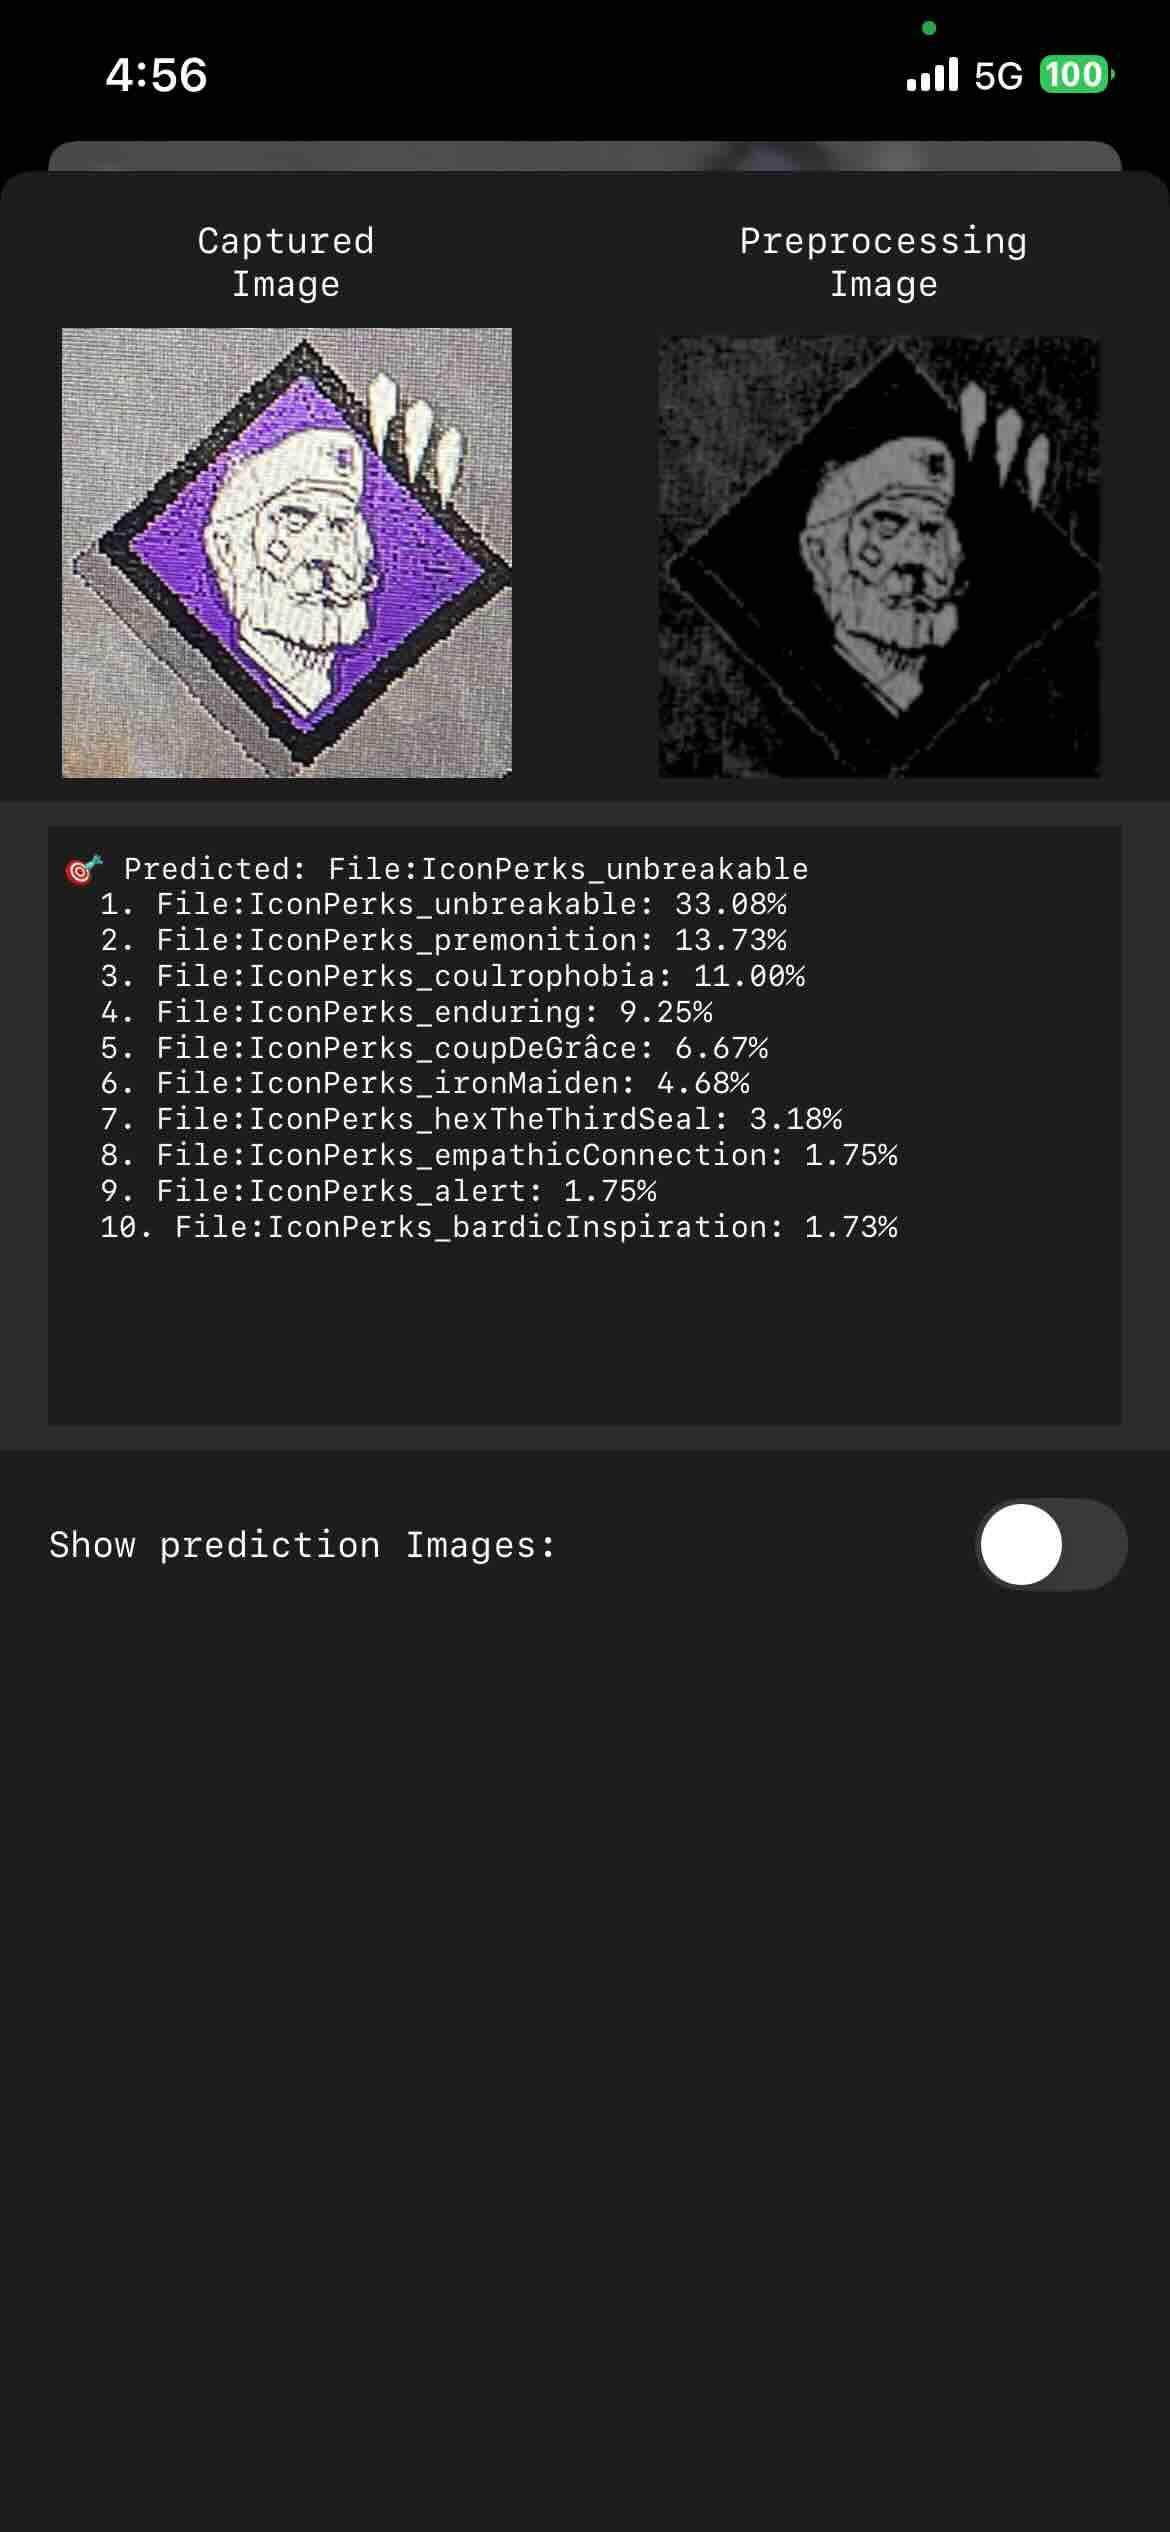
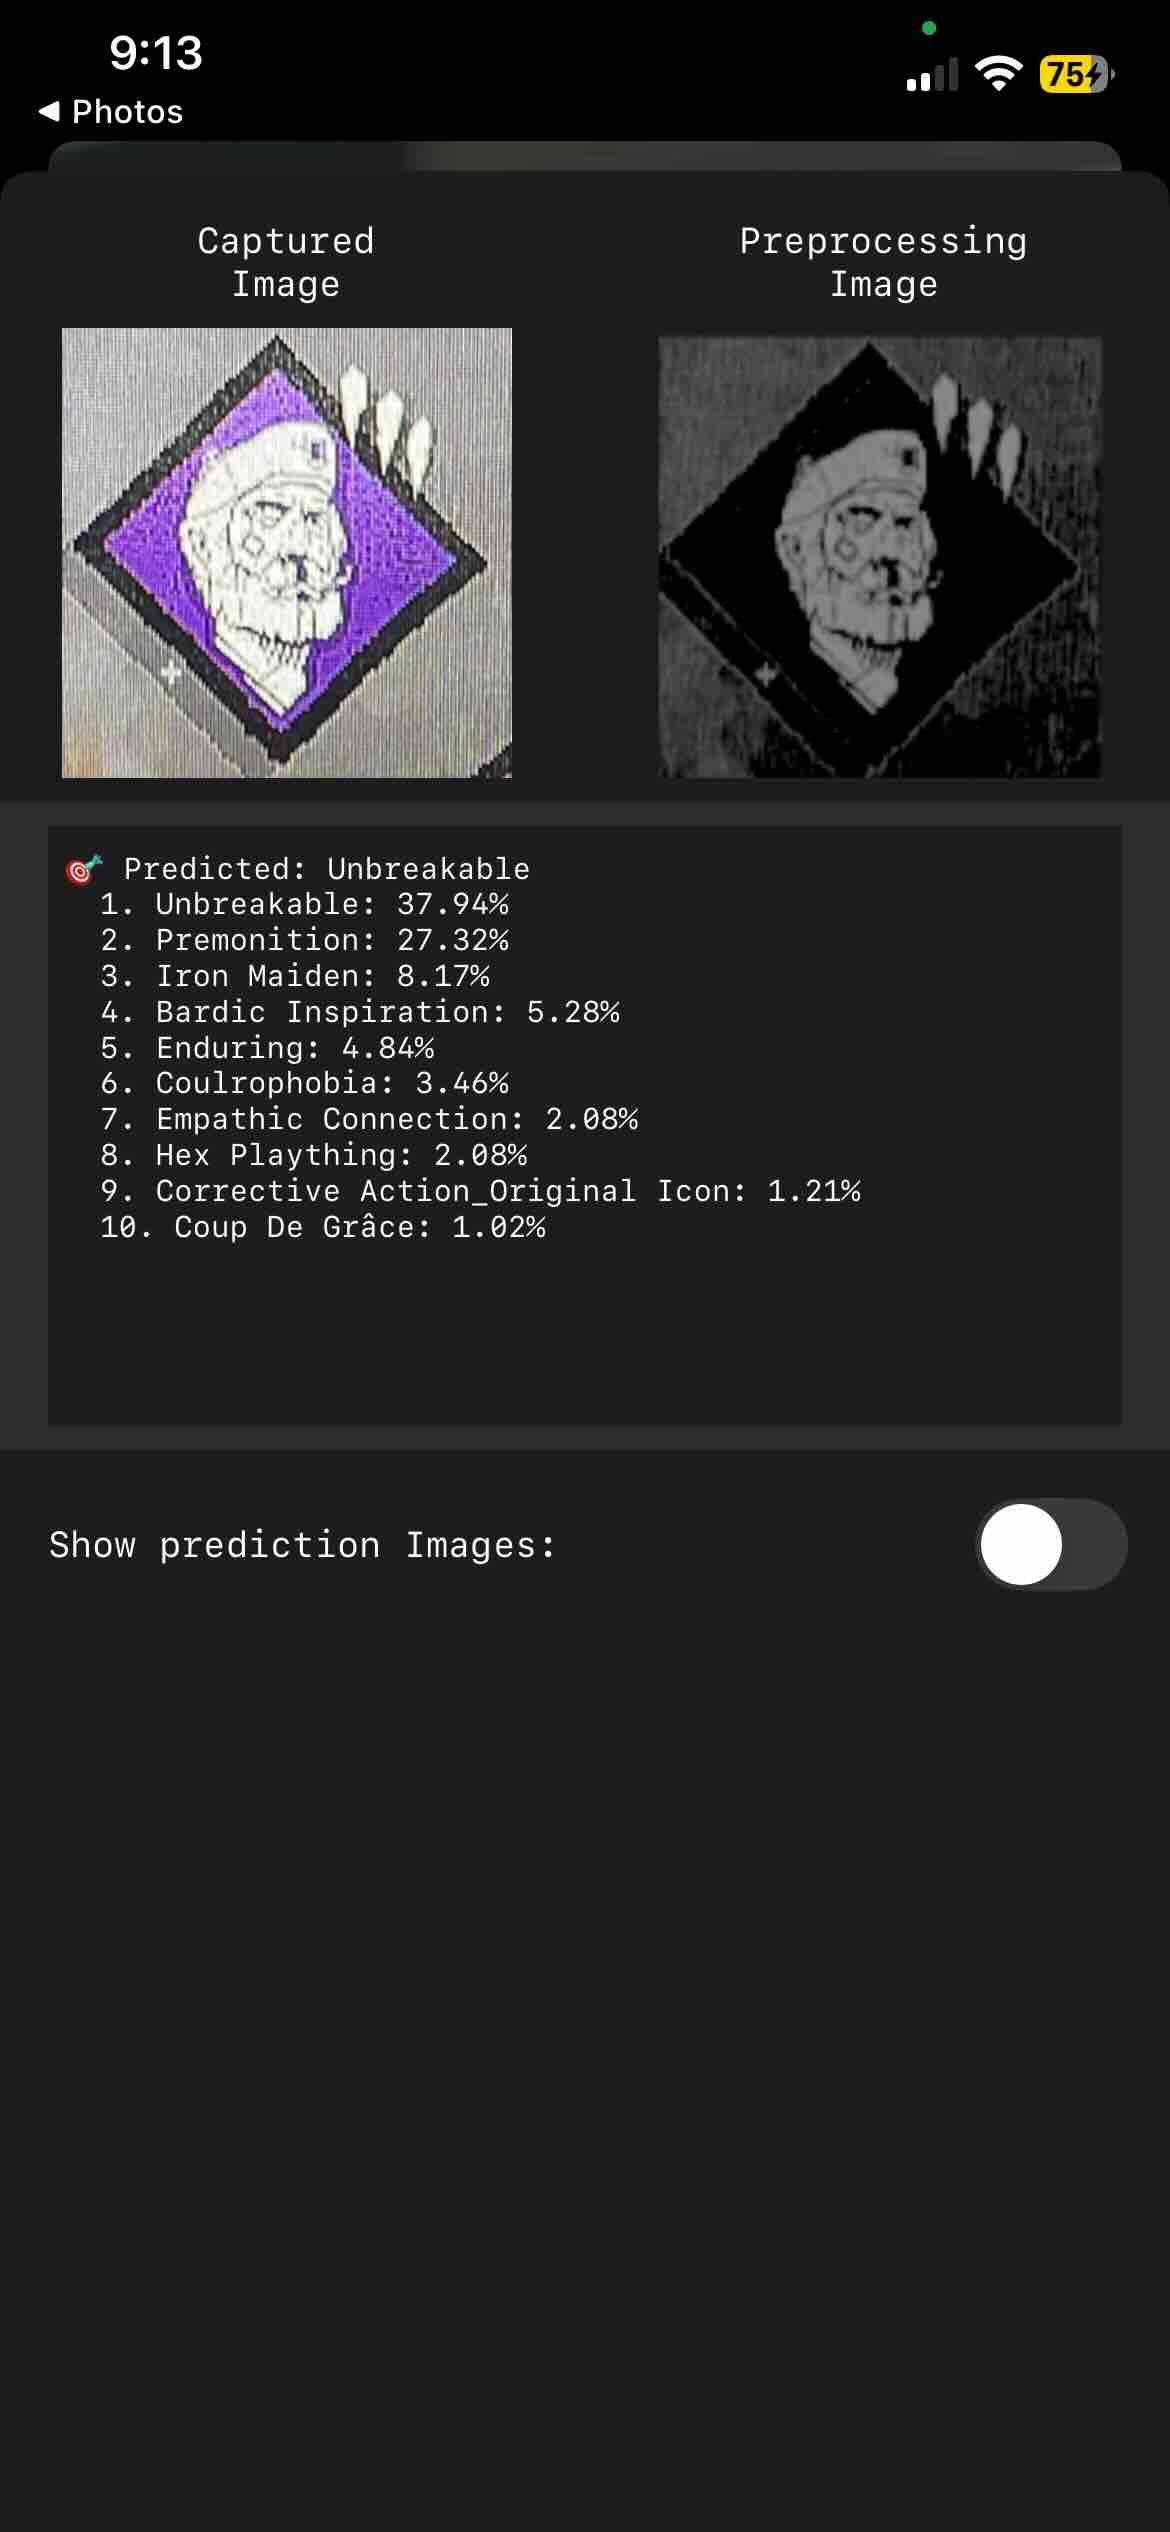
chore: extract file name to perk name

diff --git a/DBD Perks/Module/Prediction/PredictionViewModel.swift b/DBD Perks/Module/Prediction/PredictionViewModel.swift
@@ -33,12 +33,12 @@ class PredictionViewModel {
             let model = try? DBDPerkClassifier_Tuned(configuration: MLModelConfiguration())
             
             if let result = try? model?.prediction(input_1: buffer) {
-                predictionLog = "🎯 Predicted: \(result.classLabel)\n"
+                predictionLog = "🎯 Predicted: \(result.classLabel.extractPerkName())\n"
                 
                 let sorted = result.classLabel_probs.sorted { $0.value > $1.value }
                 
                 for (i, (label, prob)) in sorted.prefix(10).enumerated() {
-                    predictionLog += "  \(i+1). \(label): \(String(format: "%.2f", prob * 100))%\n"
+                    predictionLog += "  \(i+1). \(label.extractPerkName()): \(String(format: "%.2f", prob * 100))%\n"
                     resultPerks.append(label)
                 }
             } else {

diff --git a/README.md b/README.md
@@ -68,13 +68,13 @@ DBD-Perks/
 
 ## 🚀 Getting Started
 
-### 1. Clone the Repository
+#### 1. Clone the Repository
 ```bash
 git clone https://github.com/alifu/DBD-Perks.git
 cd DBD-Perks
 ```
 
-### 2. Add the ML Model
+#### 2. Add the ML Model
 
 Download or generate the .mlpackage from
 
@@ -82,11 +82,11 @@ Download or generate the .mlpackage from
 
 and place it inside the `DBD Perks/` root directory.
 
-### 3. Open in Xcode
+#### 3. Open in Xcode
 
 Open `DBD Perks.xcodeproj` (Swift Packages will fetch library we needed).
 
-### 4. Build & Run
+#### 4. Build & Run
 
 Select your device/simulator and press Run ▶.
 
